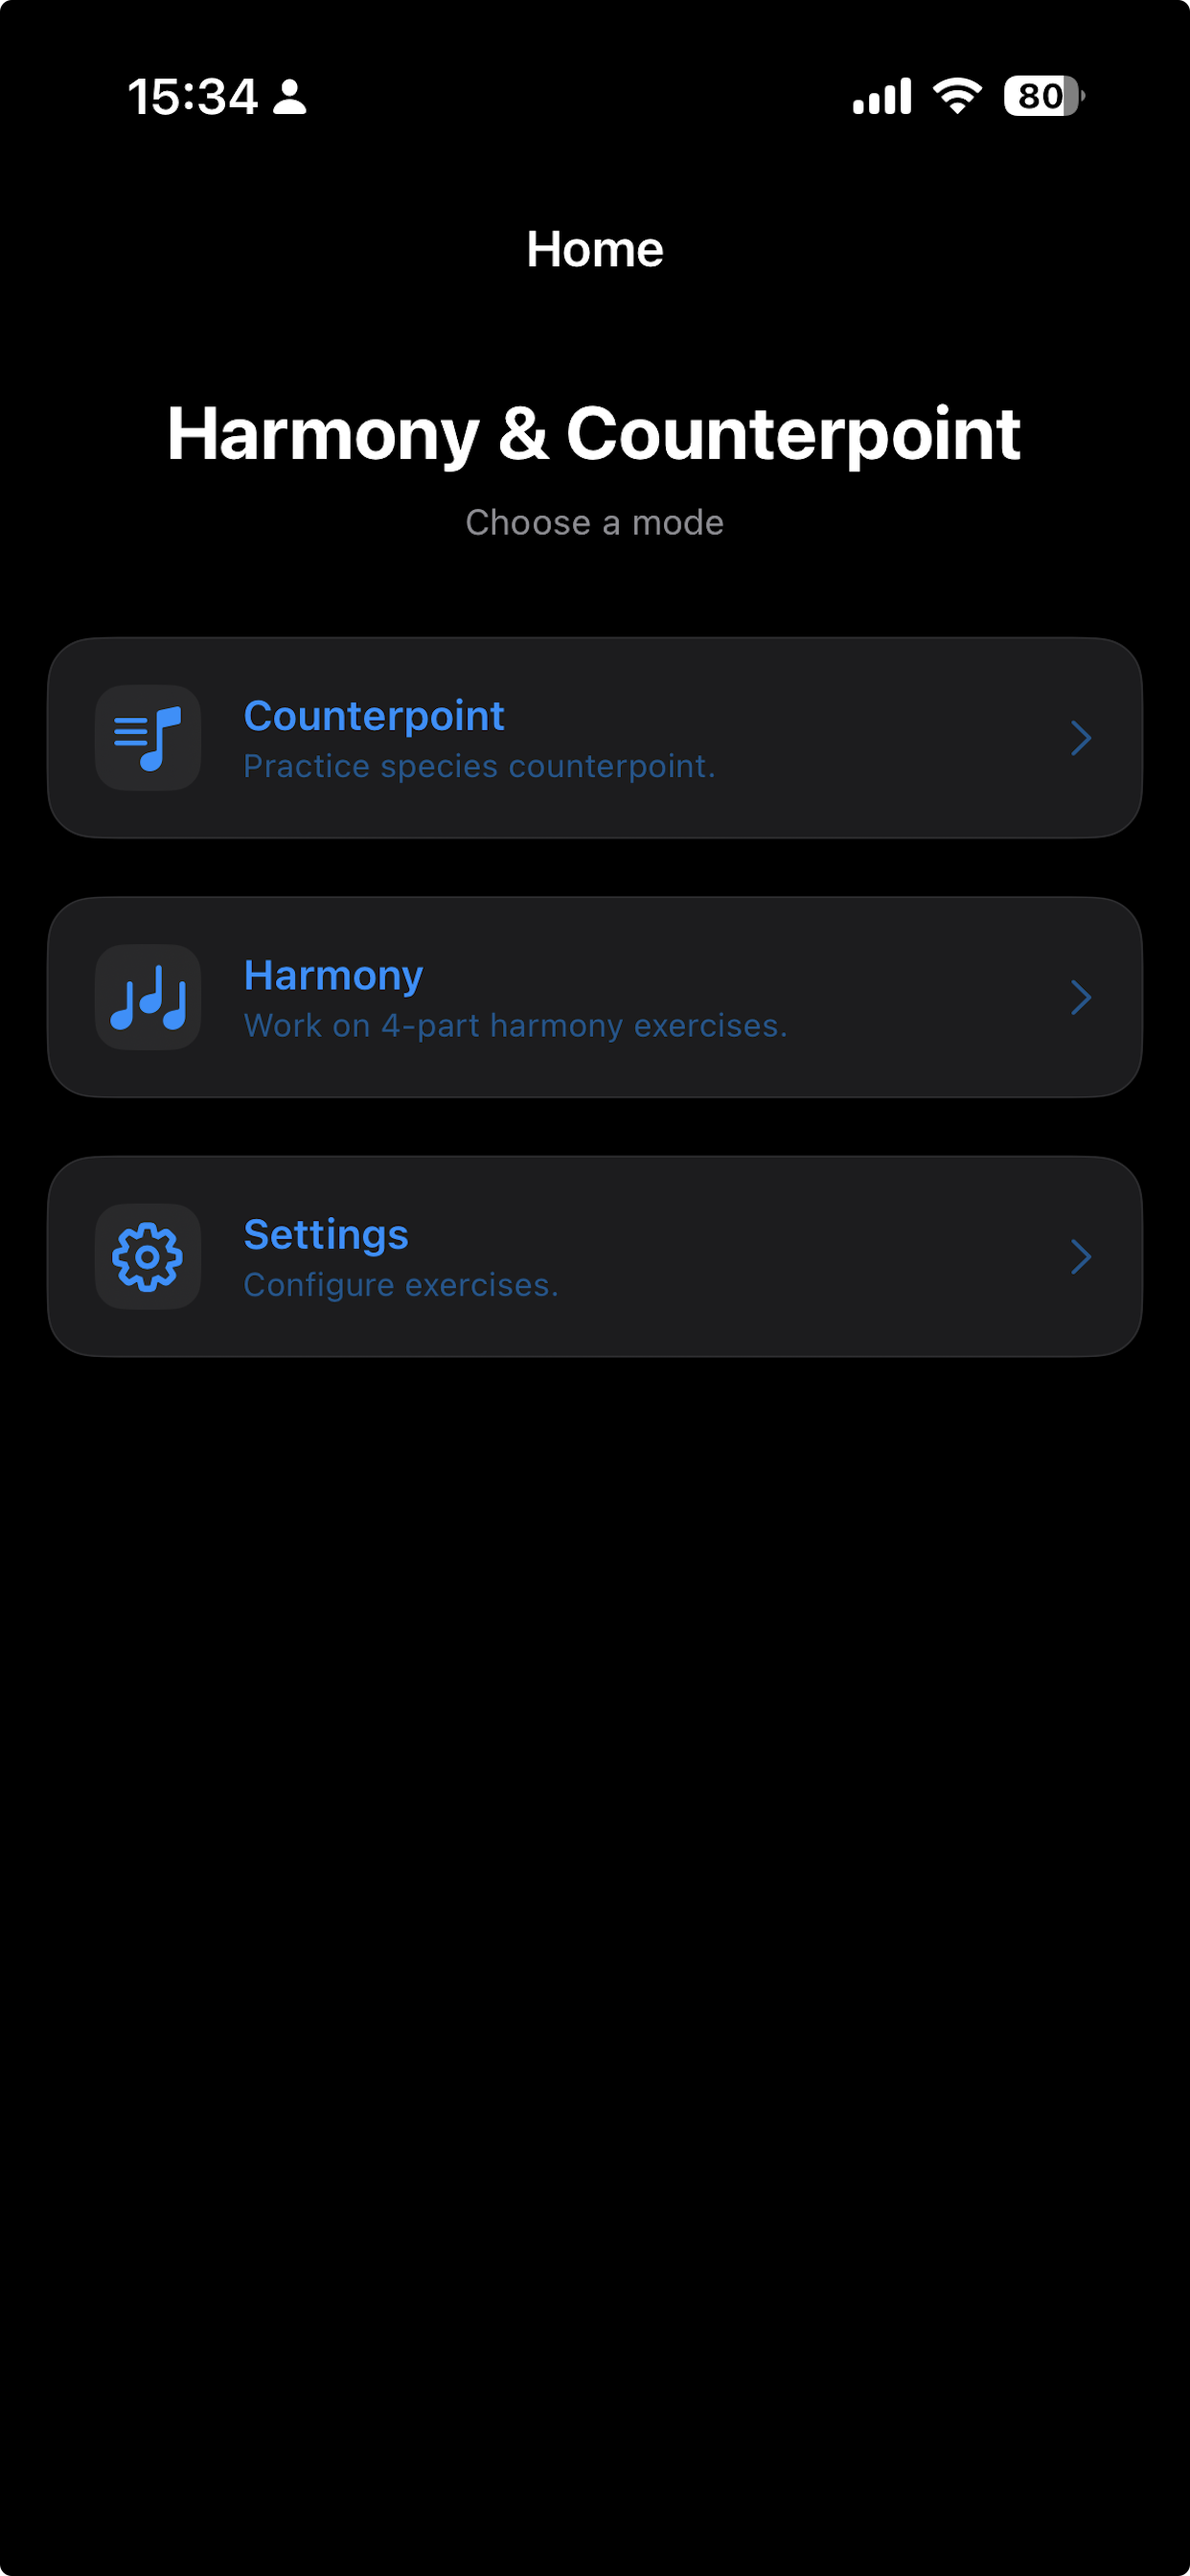
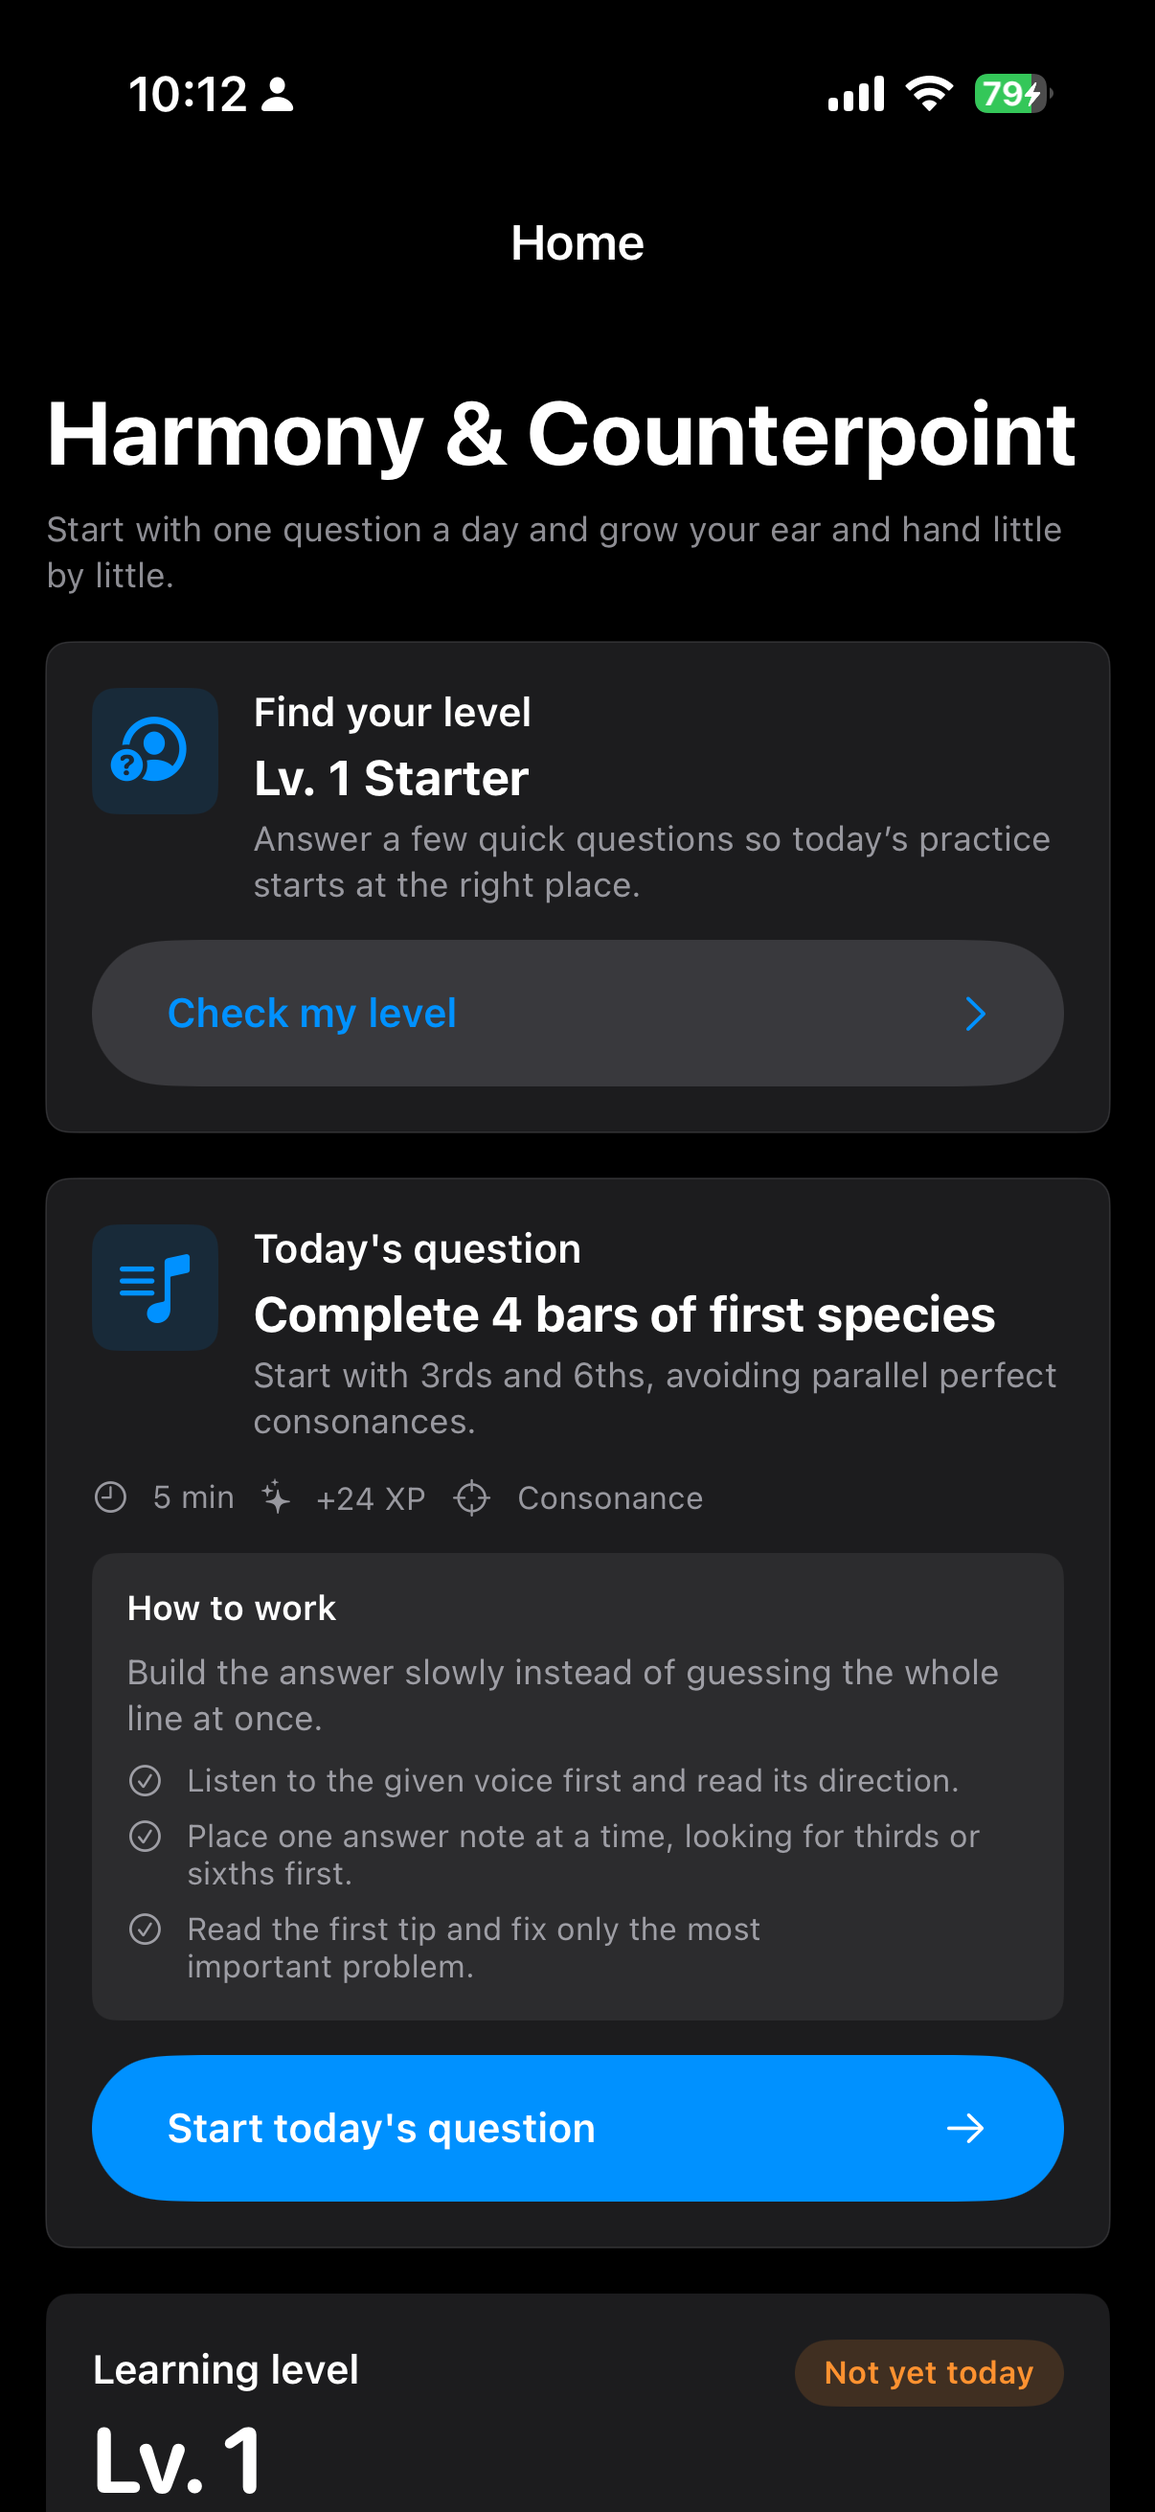
2.3

diff --git a/support/harmonycounterpoint/index.html b/support/harmonycounterpoint/index.html
@@ -40,10 +40,10 @@ favicon: "/support/harmonycounterpoint/img/icon.jpeg"
         </div>
 
         <p style="margin-top: 14px">
-          A focused training app for
-          <strong>counterpoint assignments</strong> and
-          <strong>harmony figured-bass exercises</strong>.<br />
-          Designed for practical, repeatable daily study sessions.
+          A guided learning app for <strong>harmony</strong> and
+          <strong>counterpoint</strong>.<br />
+          Assess your level, set goals, build a study plan, and stay
+          consistent with daily practice prompts and reminders.
         </p>
 
         <div class="nav">
@@ -70,16 +70,20 @@ favicon: "/support/harmonycounterpoint/img/icon.jpeg"
           style="margin: 0; padding-left: 18px; font-size: 13px"
         >
           <li>
-            <strong>Counterpoint assignments:</strong> Work through structured
-            exercises directly in the app.
+            <strong>Level assessment:</strong> Helps learners identify a clear
+            starting point.
           </li>
           <li>
-            <strong>Harmony figured-bass exercises:</strong> Practice bass-line
-            harmonization training.
+            <strong>Goal-based study planning:</strong> Build a learning path
+            that matches the user’s current level and goals.
           </li>
           <li>
-            <strong>Daily repetition workflow:</strong> Built for consistent
-            study and skill retention.
+            <strong>Daily question and reminders:</strong> Encourage steady,
+            repeatable practice over time.
+          </li>
+          <li>
+            <strong>Harmony and counterpoint exercises:</strong> Practice core
+            skills directly in the app.
           </li>
         </ul>
       </section>
@@ -146,16 +150,19 @@ favicon: "/support/harmonycounterpoint/img/icon.jpeg"
         <h2>Release history</h2>
         <div class="card" style="margin: 0">
           <div class="muted" style="font-size: 13px">
-            <strong>v1.1</strong> — Grading Rules toggle
+            <strong>v1.3</strong> — Guided learning update
           </div>
           <p class="muted" style="margin: 10px 0 0; font-size: 12px">
-            Current release. Released on 2026-04-02.
+            Current release.
           </p>
           <ul
             class="muted"
             style="margin: 10px 0 0; padding-left: 18px; font-size: 13px"
           >
-            <li>Added a toggle to turn Grading Rules on or off.</li>
+            <li>Improved note entry to make input easier.</li>
+            <li>Added level assessment to help users find the right starting point.</li>
+            <li>Added goal setting and personalized study planning.</li>
+            <li>Added a daily question and reminders to support consistent practice.</li>
           </ul>
 
           <hr
@@ -167,10 +174,10 @@ favicon: "/support/harmonycounterpoint/img/icon.jpeg"
           />
 
           <div class="muted" style="font-size: 13px">
-            <strong>2026-03-13</strong> — Initial App Store release.
+            <strong>v1.0</strong> — Initial App Store release
           </div>
           <p class="muted" style="margin: 10px 0 0; font-size: 12px">
-            Previous release.
+            Released on 2026-03-13.
           </p>
           <ul
             class="muted"
